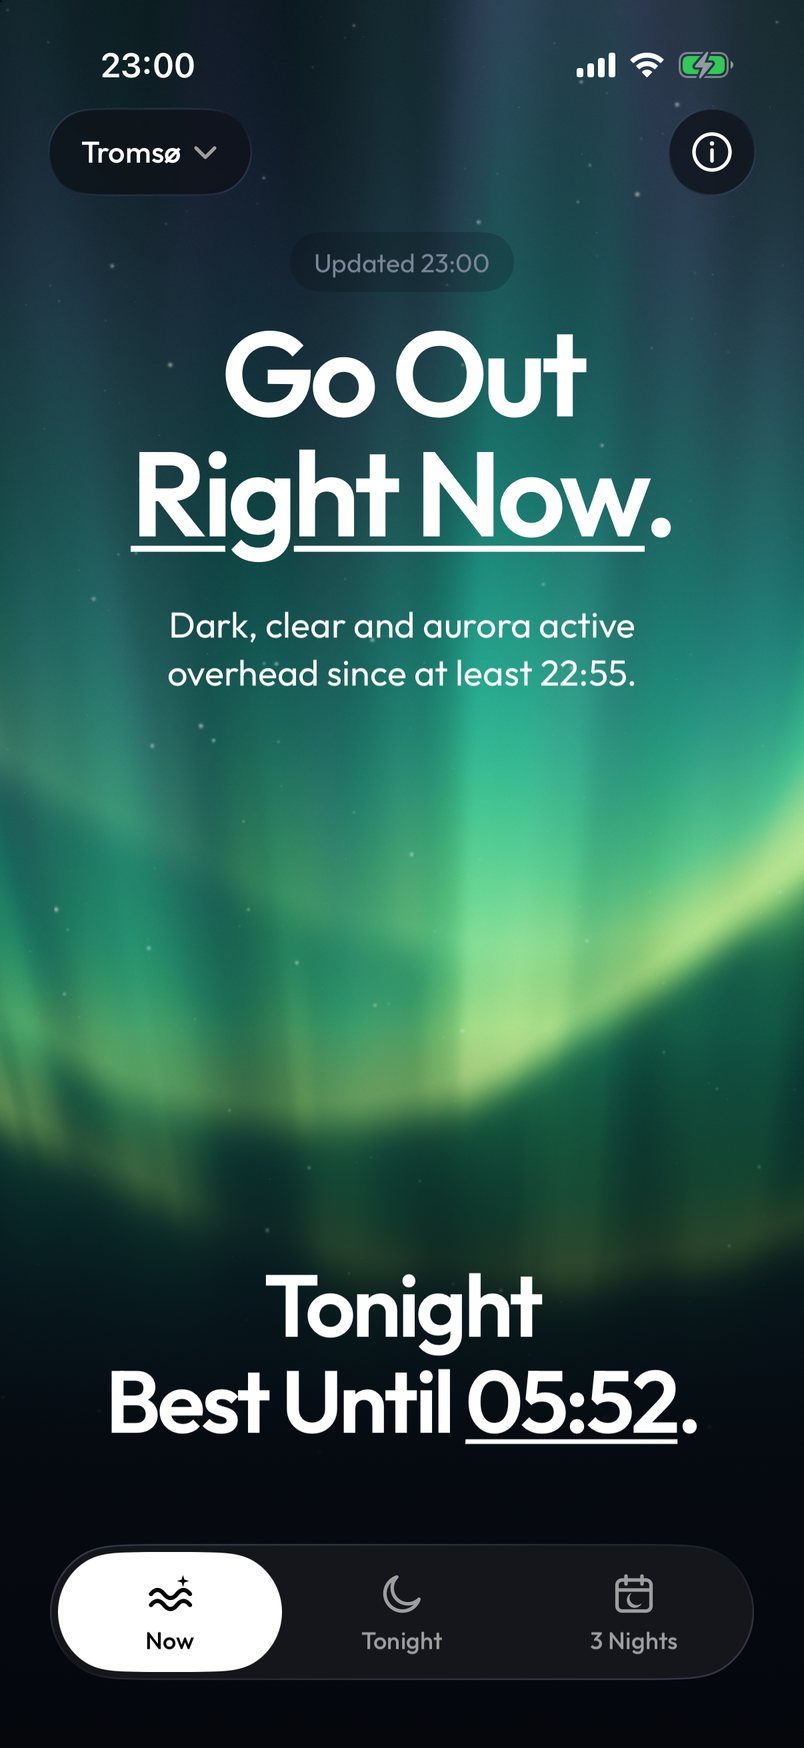
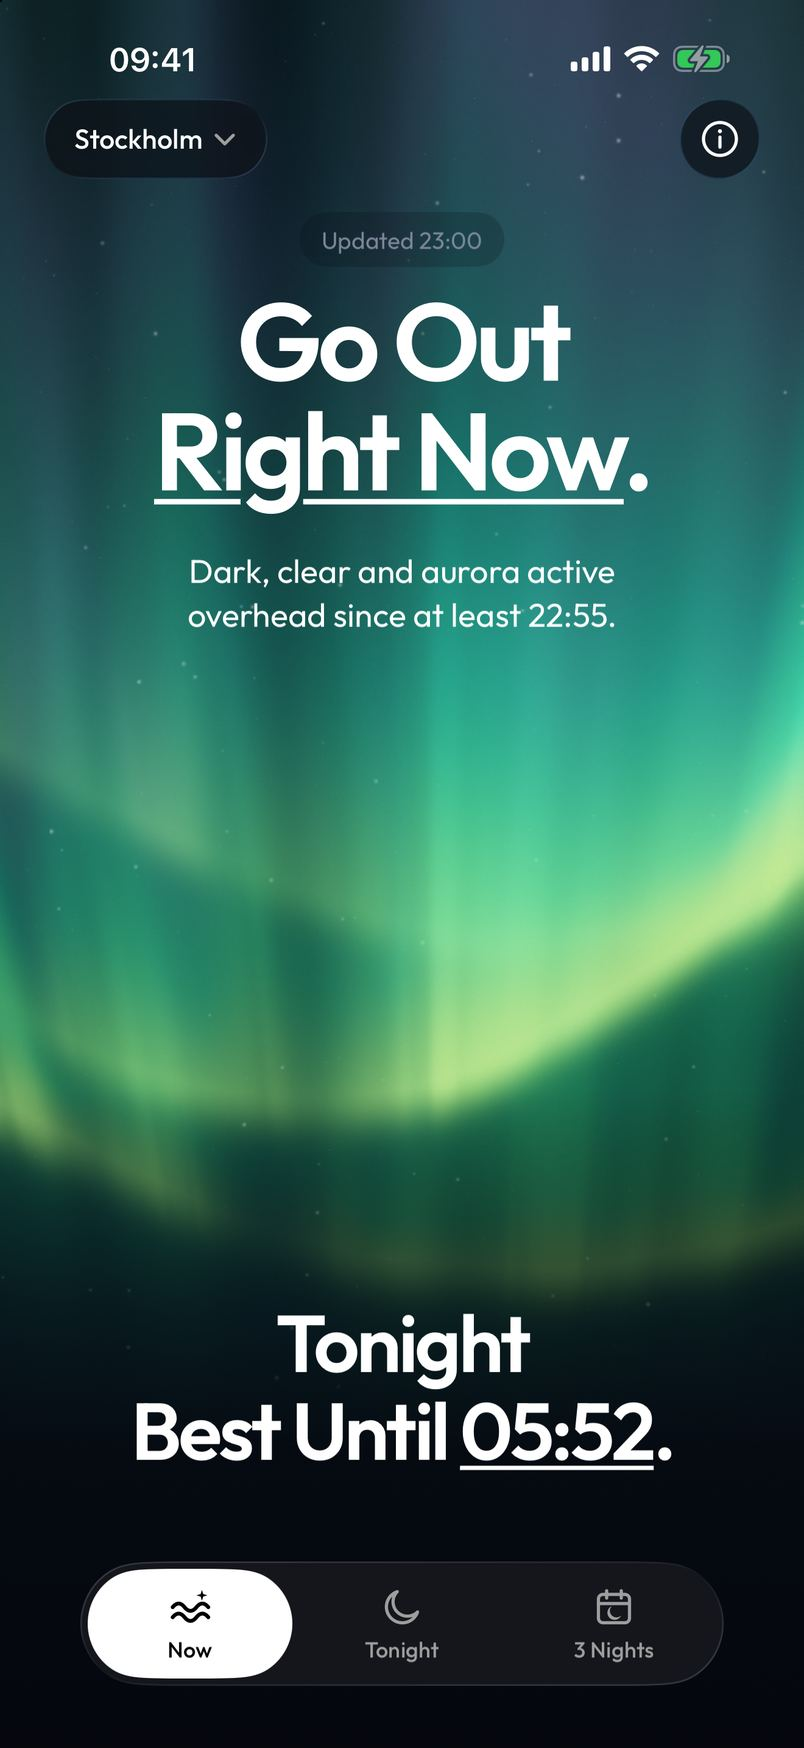
Use the App Store screenshots for Now, Tonight and Places
The README shows Now, Tonight and Places from the 6.9-inch App Store set,
resized to 804 px. The site's Now and Tonight images get the same update;
its 3 Nights image is unchanged.

diff --git a/README.md b/README.md
@@ -11,7 +11,7 @@
   &nbsp;
   <img src="site/assets/screens/tonight.jpg" width="240" alt="Tonight: the hours from sunset to sunrise">
   &nbsp;
-  <img src="site/assets/screens/three-nights.jpg" width="240" alt="Next three nights">
+  <img src="site/assets/screens/places.jpg" width="240" alt="Places: your saved places, kept on the phone">
 </p>
 
 ## What it does
